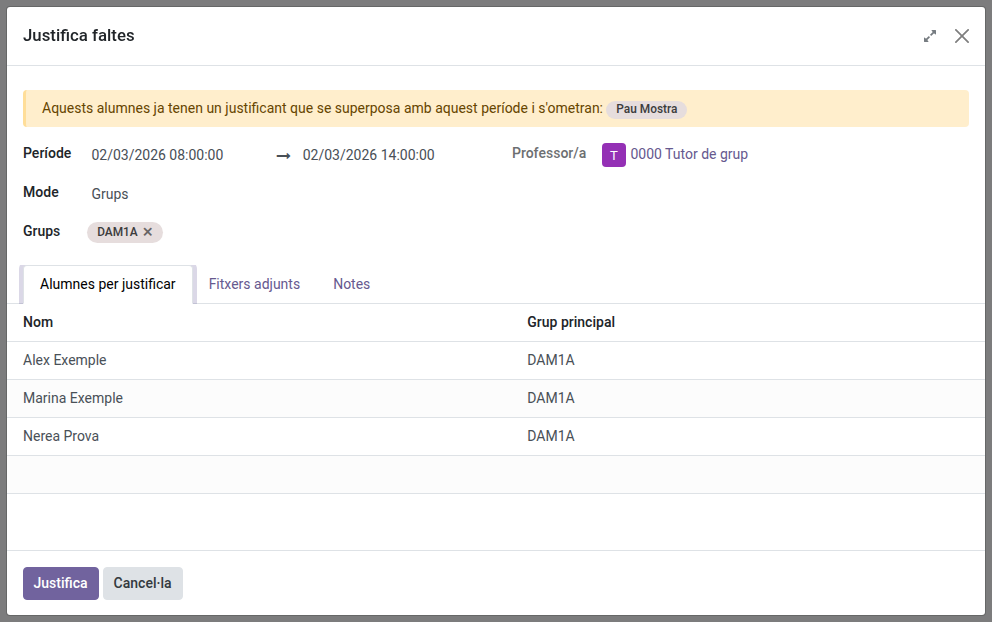
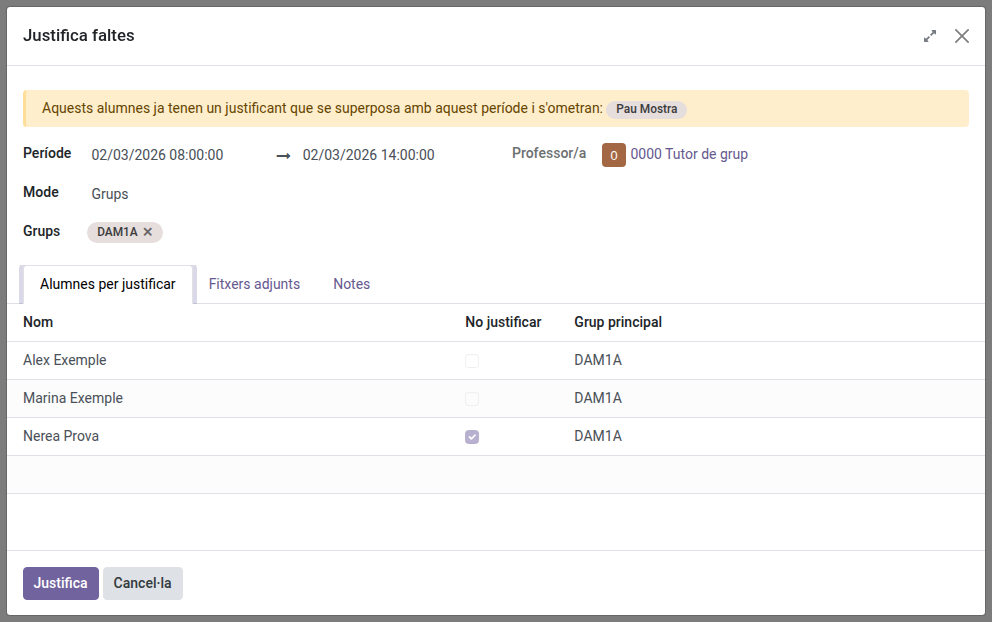
Justify absences: per-student 'Do not justify' checkbox in the assistant (Closes #763)

Changed region(s): [[0.4688, 0.4887, 0.6562, 0.7331], [0.5938, 0.2138, 0.6562, 0.2749], [0.4688, 0.672, 0.5, 0.7331]]

diff --git a/static/tests/tours/attendance_justification_tour.js b/static/tests/tours/attendance_justification_tour.js
@@ -175,7 +175,8 @@ registry.category("web_tour.tours").add("ems_attendance_justification_tutor_atta
 });
 
 // Issue #656: "New" opens the assistant; a tutor justifies a whole group of theirs at once
-// (mode "Groups"), and every student of the group gets their own justification.
+// (mode "Groups"), and every student of the group gets their own justification, except the one
+// marked "Do not justify" (issue #763).
 registry.category("web_tour.tours").add("ems_attendance_justification_create", {
     test: true,
     url: "/odoo/action-ems.action_attendance_justification_tree",
@@ -198,8 +199,17 @@ registry.category("web_tour.tours").add("ems_attendance_justification_create", {
             run: "click",
         },
         {
-            trigger: ".modal .o_field_widget[name='target_student_ids'] td:contains('Attendance Justification Tutor Tour Student')",
+            trigger: ".modal .o_field_widget[name='line_ids'] td:contains('Attendance Justification Tutor Tour Student')",
             content: "The group's student is listed as about to be justified",
+        },
+        {
+            trigger: ".modal .o_field_widget[name='line_ids'] .o_data_row:contains('Tour Excluded Student') td[name='excluded']",
+            content: "Mark the groupmate as not to be justified",
+            run: "click",
+        },
+        {
+            trigger: ".modal .o_field_widget[name='line_ids'] .o_data_row:contains('Tour Excluded Student') td[name='excluded'] input:checked",
+            content: "The groupmate is marked",
         },
         {
             trigger: ".modal .o_field_widget[name='start_date'] input[data-field='start_date']",

diff --git a/static/tests/tours/docs_screenshots_tour.js b/static/tests/tours/docs_screenshots_tour.js
@@ -66,8 +66,21 @@ registry.category("web_tour.tours").add("ems_doc_shot_tutor_justification", {
             run: "click",
         },
         {
-            trigger: ".modal div[name='target_student_ids'] .o_data_row:nth-child(3)",
+            trigger: ".modal div[name='line_ids'] .o_data_row:nth-child(3)",
             content: "The group's three students are listed",
+        },
+        {
+            trigger: ".modal div[name='line_ids'] .o_data_row:contains(Nerea Prova) td[name='excluded']",
+            content: "Nerea is marked as not to be justified (issue #763)",
+            run: "click",
+        },
+        {
+            trigger: ".modal div[name='line_ids'] .o_data_row:contains(Nerea Prova) td[name='excluded'] input:checked",
+        },
+        {
+            trigger: ".modal .o_notebook .nav-item:first-child .nav-link",
+            content: "Leave the row's edition, so the list shows as it reads",
+            run: "click",
         },
         {
             trigger: ".modal .o_justification_wizard_overlap:visible:contains(Pau Mostra)",

diff --git a/models/attendance/attendance_justification_wizard.py b/models/attendance/attendance_justification_wizard.py
@@ -1,6 +1,6 @@
 # -*- coding: utf-8 -*-
 
-from odoo import _, api, fields, models
+from odoo import _, api, Command, fields, models
 from odoo.exceptions import UserError, ValidationError
 
 from ..shared import base
@@ -36,10 +36,11 @@ class EmsAttendanceJustificationWizard(models.TransientModel):
     # allowed students are the whole centre, too many ids to send to the browser.
     student_domain = fields.Char(compute='_compute_domains')
     group_domain = fields.Char(compute='_compute_domains')
-    target_student_ids = fields.Many2many(
-        'res.partner', relation='ems_attendance_justification_wizard_target_rel',
-        column1='wizard_id', column2='partner_id', string='Students to justify',
-        compute='_compute_target_student_ids')
+    # One line per student about to be justified, where the tutor marks who must not be (issue
+    # #763: in a strike, not every student of the group joins it).
+    line_ids = fields.One2many(
+        'ems.attendance_justification_wizard_line', 'wizard_id', string='Students to justify',
+        compute='_compute_line_ids', store=True, readonly=False)
     overlap_student_ids = fields.Many2many(
         'res.partner', relation='ems_attendance_justification_wizard_overlap_rel',
         column1='wizard_id', column2='partner_id', string='Already justified',
@@ -68,10 +69,16 @@ class EmsAttendanceJustificationWizard(models.TransientModel):
             wizard.overlap_student_ids = wizard._overlapping_students(wizard._resolve_students())
 
     @api.depends('mode', 'student_ids', 'group_ids', 'overlap_student_ids')
-    def _compute_target_student_ids(self):
+    def _compute_line_ids(self):
         # Only who will really be justified: the students skipped for an overlap are listed apart.
+        # Rebuilt whenever the selection or the period changes, keeping the students already
+        # marked "Do not justify" marked.
         for wizard in self:
-            wizard.target_student_ids = wizard._resolve_students() - wizard.overlap_student_ids._origin
+            excluded = wizard.line_ids.filtered('excluded').student_id._origin
+            students = wizard._resolve_students() - wizard.overlap_student_ids._origin
+            wizard.line_ids = [Command.clear()] + [
+                Command.create({'student_id': student.id, 'excluded': student in excluded})
+                for student in students]
 
     @api.model
     def default_get(self, fields_list):
@@ -123,7 +130,9 @@ class EmsAttendanceJustificationWizard(models.TransientModel):
                     students=", ".join(refused.mapped('name'))))
 
         skipped = self._overlapping_students(students)
-        students -= skipped
+        # The lines only take students out: who is justified is still resolved here, server-side.
+        excluded = self.line_ids.filtered('excluded').student_id & students
+        students -= skipped | excluded
         lines = Justification._justifiable_lines(students, self.start_date, self.end_date)
         attachments = self.attachment_ids
         justifications = Justification.create([{
@@ -145,6 +154,8 @@ class EmsAttendanceJustificationWizard(models.TransientModel):
             message += "\n" + _(
                 "Skipped, they already have a justification overlapping this period: %s",
                 ", ".join(skipped.mapped('name')))
+        if excluded:
+            message += "\n" + _("Not justified, as marked: %s", ", ".join(excluded.mapped('name')))
         return {
             'type': 'ir.actions.client',
             'tag': 'display_notification',
@@ -156,3 +167,16 @@ class EmsAttendanceJustificationWizard(models.TransientModel):
                 'next': {'type': 'ir.actions.client', 'tag': 'soft_reload'},
             },
         }
+
+
+class EmsAttendanceJustificationWizardLine(models.TransientModel):
+    """A student listed by the assistant, which the tutor can mark as not to be justified."""
+    _name = 'ems.attendance_justification_wizard_line'
+    _description = 'Student of the absence justification assistant'
+
+    wizard_id = fields.Many2one(
+        'ems.attendance_justification_wizard', string='Assistant', required=True, ondelete='cascade')
+    student_id = fields.Many2one('res.partner', string='Student', required=True, readonly=True)
+    main_group_id = fields.Many2one(related='student_id.main_group_id')
+    excluded = fields.Boolean(
+        string='Do not justify', help="Mark it if this student's absences must not be justified.")

diff --git a/tests/test_attendance_justification.py b/tests/test_attendance_justification.py
@@ -2,6 +2,7 @@ import ast
 from datetime import date, datetime, timedelta
 
 from odoo.exceptions import UserError, ValidationError
+from odoo.tests import Form
 from odoo.tests.common import TransactionCase
 
 from .common import create_level_study, create_role_user, shift_ems_clock, mock_outgoing_email, next_student_id
@@ -476,7 +477,7 @@ class TestAttendanceJustificationPermissionsAndSync(TransactionCase):
         mate, mate_line = self._group_mate_with_miss()
 
         wizard = self._wizard(self.tutor_user, mode='groups', group_ids=[(6, 0, [self.group.id])])
-        self.assertEqual(wizard.target_student_ids, self.student | mate)
+        self.assertEqual(wizard.line_ids.student_id, self.student | mate)
         wizard.action_justify()
 
         justifications = self.env['ems.attendance_justification'].search([('student_id', 'in', (self.student | mate).ids)])
@@ -495,13 +496,45 @@ class TestAttendanceJustificationPermissionsAndSync(TransactionCase):
 
         wizard = self._wizard(self.tutor_user, student_ids=[(6, 0, (self.student | mate).ids)])
         self.assertEqual(wizard.overlap_student_ids, self.student)
-        self.assertEqual(wizard.target_student_ids, mate)
+        self.assertEqual(wizard.line_ids.student_id, mate)
         result = wizard.action_justify()
 
         self.assertEqual(self.env['ems.attendance_justification'].search([('student_id', '=', self.student.id)]), existing)
         self.assertEqual(mate_line.status_id, self.env.ref('ems.attendance_status_justified'))
         self.assertEqual(result['params']['type'], 'warning')
         self.assertIn(self.student.name, result['params']['message'])
+
+    def test_wizard_does_not_justify_students_marked_as_excluded(self):
+        # Issue #763: a strike of a whole group, which one student did not join.
+        own_line = self._line()
+        own_line.status_id = self.env.ref('ems.attendance_status_miss')
+        mate, mate_line = self._group_mate_with_miss()
+
+        wizard = self._wizard(self.tutor_user, mode='groups', group_ids=[(6, 0, [self.group.id])])
+        wizard.line_ids.filtered(lambda line: line.student_id == mate).excluded = True
+        result = wizard.action_justify()
+
+        Justification = self.env['ems.attendance_justification']
+        self.assertEqual(Justification.search([('student_id', 'in', (self.student | mate).ids)]).student_id, self.student)
+        self.assertEqual(own_line.status_id, self.env.ref('ems.attendance_status_justified'))
+        self.assertEqual(mate_line.status_id, self.env.ref('ems.attendance_status_miss'))
+        self.assertIn(mate.name, result['params']['message'])
+
+    def test_wizard_keeps_exclusions_when_the_period_changes(self):
+        # Changing the period (or the groups) rebuilds the lines: the marks already made stay.
+        mate, __ = self._group_mate_with_miss()
+        with Form(self.env['ems.attendance_justification_wizard'].with_user(self.tutor_user)) as form:
+            form.start_date, form.end_date = self._today_range().values()
+            form.mode = 'groups'
+            form.group_ids.add(self.group)
+            students = [vals['student_id'] for vals in form.line_ids._records]
+            with form.line_ids.edit(students.index(mate.id)) as line:
+                line.excluded = True
+            form.start_date = form.start_date + timedelta(hours=1)
+        wizard = form.record
+
+        self.assertEqual(wizard.line_ids.student_id, self.student | mate)
+        self.assertEqual(wizard.line_ids.filtered('excluded').student_id, mate)
 
     def test_wizard_refuses_students_outside_tutor_scope(self):
         stranger = self.env['res.partner'].create({

diff --git a/tests/test_attendance_justification_tour.py b/tests/test_attendance_justification_tour.py
@@ -42,6 +42,11 @@ class TestAttendanceJustificationTour(HttpCase):
             'name': 'Attendance Justification Tutor Tour Student', 'contact_type': 'student',
             'student_id': next_student_id(), 'main_group_id': group.id,
         })
+        # Issue #763: a groupmate the tutor marks as not to be justified from the assistant.
+        cls.excluded_student = cls.env['res.partner'].create({
+            'name': 'Attendance Justification Tour Excluded Student', 'contact_type': 'student',
+            'student_id': next_student_id(), 'main_group_id': group.id,
+        })
         subject = cls.env['ems.subject'].create({
             'code': 'TJT001', 'acronym': 'TJT', 'name': 'Attendance Justification Tour Subject',
             'study_ids': [(6, 0, [study.id])],
@@ -90,7 +95,8 @@ class TestAttendanceJustificationTour(HttpCase):
         self.assertEqual(self.justification.notes, 'Tour note')
 
     def test_attendance_justification_create_tour(self):
-        # Issue #656: a tutor justifies their whole group from the assistant.
+        # Issue #656: a tutor justifies their whole group from the assistant, but for the student
+        # they mark as not to be justified (issue #763).
         self.start_tour("/odoo", "ems_attendance_justification_create", login=self.tutor_user.login)
 
         justification = self.env['ems.attendance_justification'].search([
@@ -99,6 +105,8 @@ class TestAttendanceJustificationTour(HttpCase):
         ])
         self.assertEqual(len(justification), 1)
         self.assertEqual(justification.teacher_id.user_id, self.tutor_user)
+        self.assertFalse(self.env['ems.attendance_justification'].search([
+            ('student_id', '=', self.excluded_student.id)]))
         # The web client reads the typed 09:00-11:00 in the company's timezone (issue #518, see
         # docs/en/developers/shared/timezones.md), and the database stores it in UTC.
         utils = self.env['ems.datetime_utils']

diff --git a/tests/test_access_matrix.py b/tests/test_access_matrix.py
@@ -30,6 +30,7 @@ ACCESS_MATRIX = {
     'ems.attendance_report_wizard': {'teacher': 'rwc', 'secretary': 'rwc'},
     # Issue #656: tutors justify absences from it; the secretariat only reads justifications.
     'ems.attendance_justification_wizard': {'teacher': 'rwcu', 'secretary': ''},
+    'ems.attendance_justification_wizard_line': {'teacher': 'rwcu', 'secretary': ''},
     'ems.attendance_status': {'teacher': 'r'},
     'ems.content': {'teacher': 'r', 'secretary': 'r'},
     # Heads of Studies maintain the reasons they pick from, archiving instead of deleting (issue #654).

diff --git a/docs/en/developers/attendance/attendance_justification.md b/docs/en/developers/attendance/attendance_justification.md
@@ -36,18 +36,22 @@ justification still shows its own form, to edit or delete it.
 |-------|-------|
 | `mode` | "Students" (pick them by hand, any number) or "Groups" (every active student whose main group is one of the picked groups). |
 | `start_date` / `end_date`, `teacher_id`, `notes`, `attachment_ids` | Copied to every justification created. Each one gets its own copy of the files (same content, the filestore keeps it once), so each file follows the access rights of the justification it belongs to. |
-| `allowed_student_ids` / `allowed_group_ids` | What the pickers offer, from the justifying teacher (`teacher_id`): an administrator, everything; anyone else, the students (and main groups) of the groups they act as tutor of (`tutor_scope_user_ids`), the same rule as the form's own `allowed_student_ids`. |
-| `target_student_ids` | Preview: the students the selection resolves to that will really be justified (without the skipped ones below). |
+| `student_domain` / `group_domain` | What the pickers offer (the view's `domain=`), from the justifying teacher (`teacher_id`): an administrator, everything; anyone else, the students (and main groups) of the groups they act as tutor of (`tutor_scope_user_ids`), the same rule as the form's own `allowed_student_ids`. Sent as domain text, not ids: for an administrator the ids would be the whole centre. |
+| `line_ids` | `One2many → ems.attendance_justification_wizard_line`, computed + stored, `readonly=False`: one line per student the selection resolves to (without the skipped ones below). Each line has a "Do not justify" checkbox (`excluded`, issue #763: in a strike, not every student of the group joins it). Rebuilt whenever the mode, the selection or the period changes, keeping the students already marked as marked. |
 | `overlap_student_ids` | Preview: those already holding a justification overlapping the period. They are **skipped**, not an error, and the closing notification names them. |
 
 ```mermaid
 flowchart TD
     A["action_justify()"] --> B["_check_permissions per student\n(admin, or acts as their tutor) or raise"]
-    B --> C["skip students with an overlapping justification"]
+    B --> C["skip students with an overlapping justification\nand those marked 'Do not justify'"]
     C --> D["_justifiable_lines(students, period)\none search for every student"]
     D --> E["create() one justification per student\nwith its lines and its own copy of the files"]
-    E --> F["notification: N justified, M skipped (names)"]
+    E --> F["notification: N justified, M skipped, K marked (names)"]
 ```
+
+Who is justified is still resolved server-side from the selection (`_resolve_students()`): the
+lines can only take students out, never add one, so a crafted line cannot reach a student
+outside the tutor's scope.
 
 `EmsAttendanceJustification._justifiable_lines(students, start_date, end_date)` is the one place
 that finds the session lines a period covers (shared with the form's onchange): a single search

diff --git a/docs/es/tutors/attendance-justifications.md b/docs/es/tutors/attendance-justifications.md
@@ -20,12 +20,12 @@ Puedes justificar a un alumno, a varios o a grupos enteros a la vez (por ejemplo
 2. En **Período**, indica la fecha y la hora de inicio y de fin.
 3. En **Modo**, elige cómo seleccionarlos:
     - **Estudiantes**: elige uno o más alumnos en **Estudiantes**.
-    - **Grupos**: elige uno o más grupos en **Grupos**. Se justifica a todos los alumnos de esos grupos.
+    - **Grupos**: elige uno o más grupos en **Grupos**. Se justifica a todos los alumnos de esos grupos, excepto a los que marques en el paso siguiente.
 
     Solo aparecen tus grupos y sus alumnos.
-4. La pestaña **Alumnos por justificar** muestra a quién se justificará. Si alguno ya tiene un justificante que se solapa con el período, un aviso amarillo lo indica: se omitirá.
+4. La pestaña **Alumnos por justificar** muestra a quién se justificará. Marca **No justificar** junto a quien no se deba justificar (por ejemplo, en una huelga, los alumnos que no la han secundado). Si alguno ya tiene un justificante que se solapa con el período, un aviso amarillo lo indica: se omitirá.
 5. Si quieres, adjunta el documento en la pestaña **Archivos adjuntos** (cada alumno recibe su propia copia) y añade un comentario en **Notas**.
-6. Pulsa **Justificar**. EMS crea un justificante para cada alumno: sus faltas del período pasan a **Falta justificada**, sea cual sea el docente que las puso, y sus retrasos graves a **Retraso leve**. Un mensaje te indica cuántos alumnos se han justificado y cuáles se han omitido.
+6. Pulsa **Justificar**. EMS crea un justificante para cada alumno: sus faltas del período pasan a **Falta justificada**, sea cual sea el docente que las puso, y sus retrasos graves a **Retraso leve**. Un mensaje te indica cuántos alumnos se han justificado, cuáles se han omitido y cuáles has marcado para no justificar.
 
 ![El asistente Justificar faltas sobre un grupo entero](../../assets/tutors/justificants-02-nou.png)
 

diff --git a/docs/en/tutors/attendance-justifications.md b/docs/en/tutors/attendance-justifications.md
@@ -20,12 +20,12 @@ You can justify one student, several, or whole groups at once (for example, for 
 2. In **Period**, set the start and end date and time.
 3. In **Mode**, choose how to pick them:
     - **Students**: pick one or more students in **Students**.
-    - **Groups**: pick one or more groups in **Groups**. Every student of those groups is justified.
+    - **Groups**: pick one or more groups in **Groups**. Every student of those groups is justified, except those you mark in the next step.
 
     Only your groups and their students are listed.
-4. The **Students to justify** tab lists who will be justified. If any of them already has a justification overlapping the period, a yellow notice names them: they will be skipped.
+4. The **Students to justify** tab lists who will be justified. Tick **Do not justify** next to anyone who must not be justified (for example, during a strike, the students who didn't join it). If any of them already has a justification overlapping the period, a yellow notice names them: they will be skipped.
 5. If you want, attach the document in the **Attached files** tab (every student gets their own copy) and add a comment in **Notes**.
-6. Click **Justify**. EMS creates one justification per student: their absences within the period become **Justified Miss**, whichever teacher recorded them, and their severe delays become **Minor Delay**. A message tells you how many students were justified and which ones were skipped.
+6. Click **Justify**. EMS creates one justification per student: their absences within the period become **Justified Miss**, whichever teacher recorded them, and their severe delays become **Minor Delay**. A message tells you how many students were justified, which ones were skipped and which ones you marked as not to justify.
 
 ![The Justify absences assistant on a whole group](../../assets/tutors/justificants-02-nou.png)
 

diff --git a/docs/ca/tutors/attendance-justifications.md b/docs/ca/tutors/attendance-justifications.md
@@ -20,12 +20,12 @@ Pots justificar un alumne, diversos o grups sencers alhora (per exemple, per a u
 2. A **Període**, indica la data i l'hora d'inici i de fi.
 3. A **Mode**, tria com els selecciones:
     - **Estudiants**: tria un o més alumnes a **Estudiants**.
-    - **Grups**: tria un o més grups a **Grups**. Es justifiquen tots els alumnes d'aquests grups.
+    - **Grups**: tria un o més grups a **Grups**. Es justifiquen tots els alumnes d'aquests grups, excepte els que marquis al pas següent.
 
     Només hi surten els teus grups i els seus alumnes.
-4. La pestanya **Alumnes per justificar** mostra qui es justificarà. Si algun ja té un justificant que se superposa amb el període, un avís groc l'indica: se l'ometrà.
+4. La pestanya **Alumnes per justificar** mostra qui es justificarà. Marca **No justificar** al costat de qui no s'hagi de justificar (per exemple, en una vaga, els alumnes que no l'han secundat). Si algun ja té un justificant que se superposa amb el període, un avís groc l'indica: se l'ometrà.
 5. Si vols, adjunta el document a la pestanya **Fitxers adjunts** (cada alumne en rep una còpia) i afegeix un comentari a **Notes**.
-6. Clica **Justifica**. EMS crea un justificant per a cada alumne: les seves faltes del període passen a **Falta justificada**, sigui quin sigui el docent que les va posar, i els seus retards greus a **Retard lleu**. Un missatge t'indica quants alumnes s'han justificat i quins s'han omès.
+6. Clica **Justifica**. EMS crea un justificant per a cada alumne: les seves faltes del període passen a **Falta justificada**, sigui quin sigui el docent que les va posar, i els seus retards greus a **Retard lleu**. Un missatge t'indica quants alumnes s'han justificat, quins s'han omès i quins has marcat per no justificar.
 
 ![L'assistent Justifica faltes sobre un grup sencer](../../assets/tutors/justificants-02-nou.png)
 

diff --git a/changelog/763-justify-by-group-exclude.md b/changelog/763-justify-by-group-exclude.md
@@ -1,0 +1,7 @@
+# What's new
+
+## Justify absences by group, leaving some students out:
+- The "Justify absences" assistant lists the students about to be justified with a "Do not justify" checkbox per student, so a tutor can justify a whole group except the ones marked (e.g. in a strike, the students who didn't join it). Works in both modes (Students and Groups).
+- The marks survive changing the period or the selection; the closing message names the students left out.
+- The list is backed by a transient line model (`ems.attendance_justification_wizard_line`) that replaces the read-only `target_student_ids` preview; who gets justified is still resolved server-side, the lines can only take students out.
+- Tutors' manual (ca/es/en) and its screenshot updated.
